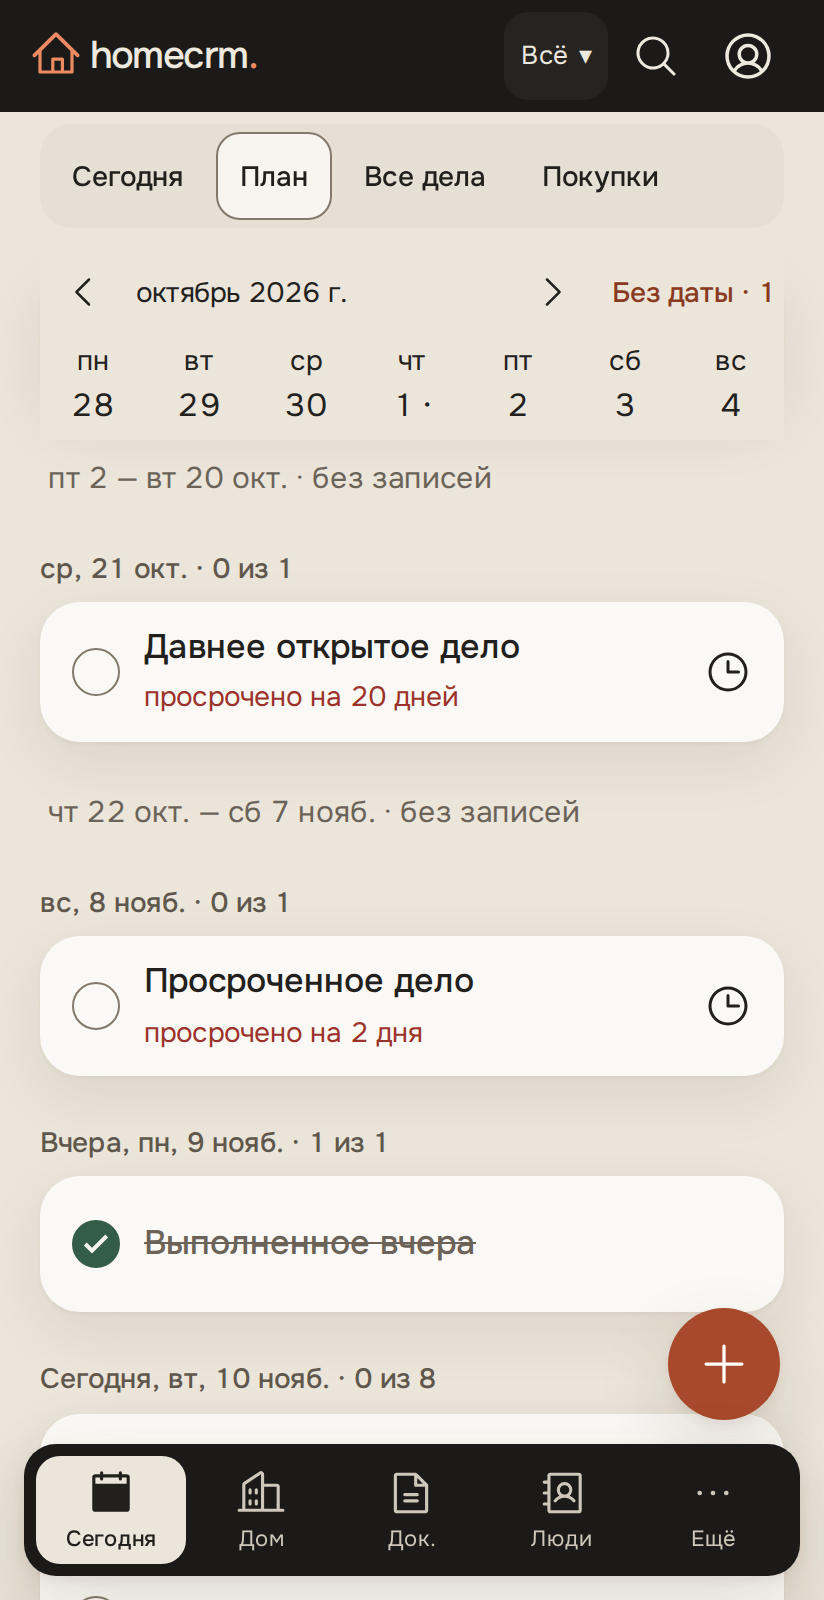
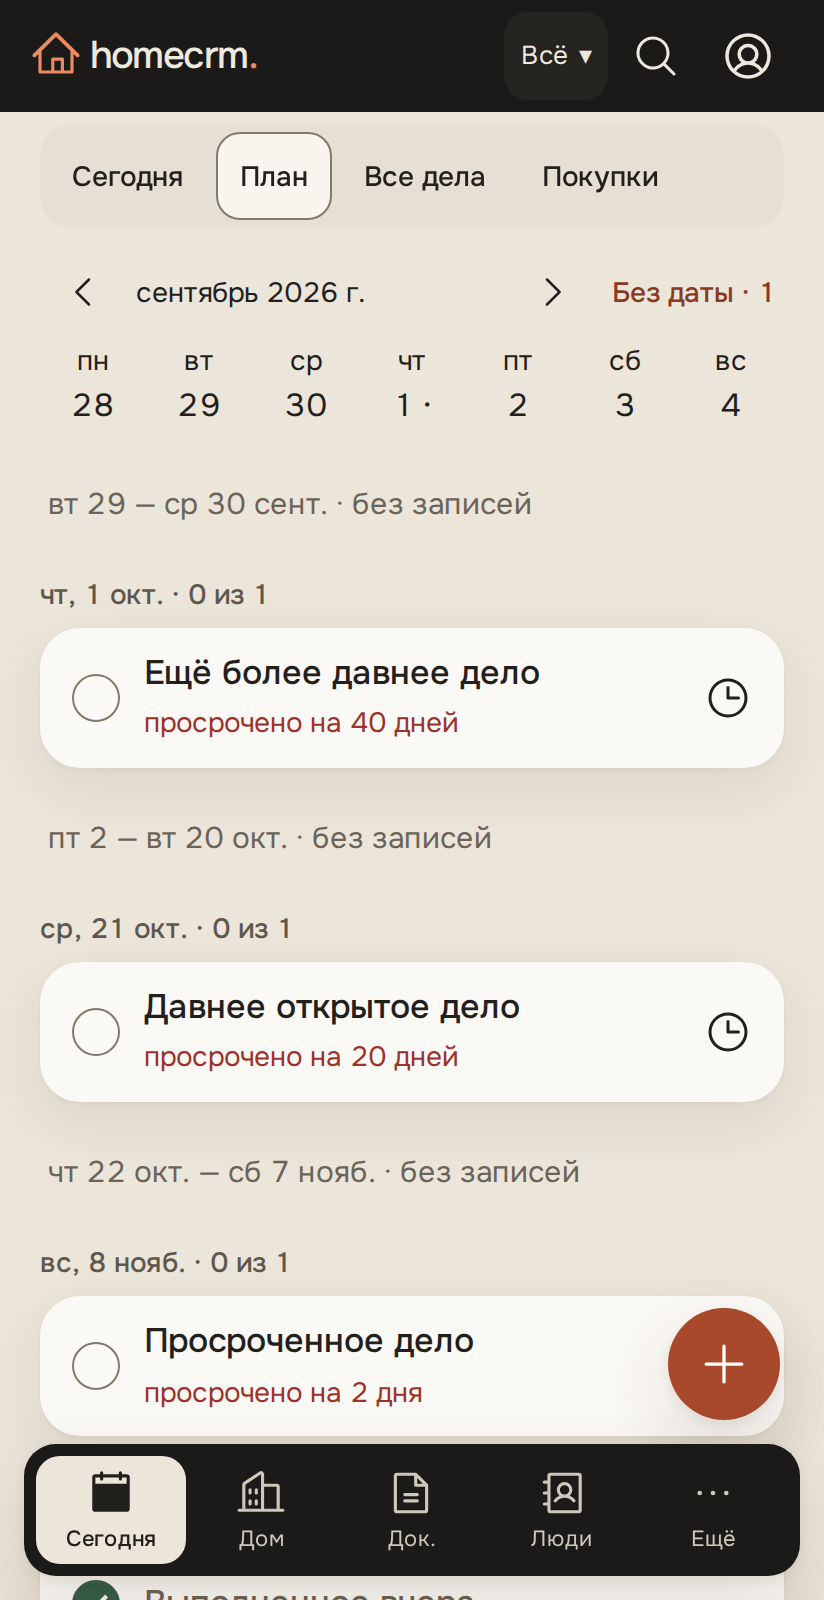
TASK-5: сохранить UI-8 при первом открытии ежедневника

diff --git a/apps/web/src/tasks/PlanWeek.tsx b/apps/web/src/tasks/PlanWeek.tsx
@@ -2,6 +2,7 @@ import { shiftTaskDate } from '@homecrm/shared';
 import { CaretLeft, CaretRight } from '@phosphor-icons/react';
 import { useEffect, useLayoutEffect, useRef, useState } from 'react';
 import { plural } from '../ui/format.ts';
+import { focusAfterTouch } from './TaskTabs.tsx';
 export function PlanWeek({
   today,
   counts,
@@ -67,14 +68,26 @@ export function PlanWeek({
   };
   const minimum = shiftTaskDate(today, -365);
   return (
-    <nav ref={root} className="plan-week" aria-label="Неделя плана">
+    <nav
+      ref={root}
+      className="plan-week"
+      aria-label="Неделя плана"
+      onPointerDown={(event) => {
+        const button = event.target instanceof Element ? event.target.closest('button') : null;
+        if (!button) return;
+        // Стандартный перевод фокуса учитывает scroll-padding шапки и может сдвинуть страницу.
+        event.preventDefault();
+        if (event.pointerType === 'touch') focusAfterTouch(button);
+        else button.focus({ preventScroll: true });
+      }}
+    >
       <div className="plan-week__heading">
         <button
           type="button"
           className="icon-button"
           aria-label="Предыдущая неделя"
           disabled={busy || monday <= minimum}
-          onClick={() => void choose([shiftTaskDate(monday, -7), minimum].sort().at(-1) ?? minimum)}
+          onClick={() => setDay([shiftTaskDate(monday, -7), minimum].sort().at(-1) ?? minimum)}
         >
           <CaretLeft size={20} />
         </button>
@@ -90,7 +103,7 @@ export function PlanWeek({
           className="icon-button"
           aria-label="Следующая неделя"
           disabled={busy}
-          onClick={() => void choose(shiftTaskDate(monday, 7))}
+          onClick={() => setDay(shiftTaskDate(monday, 7))}
         >
           <CaretRight size={20} />
         </button>
@@ -103,7 +116,7 @@ export function PlanWeek({
       <div className="plan-week__days">
         {Array.from({ length: 7 }, (_, i) => {
           const date = shiftTaskDate(monday, i);
-          const count = counts.get(date) ?? 0;
+          const count = counts.get(date);
           const full = new Intl.DateTimeFormat('ru-RU', {
             dateStyle: 'full',
             timeZone: 'UTC',
@@ -114,13 +127,17 @@ export function PlanWeek({
               type="button"
               disabled={busy || date < minimum}
               aria-current={date === today ? 'date' : undefined}
-              aria-label={`${full}, ${count} ${plural(count, ['дело', 'дела', 'дел'])}`}
+              aria-label={
+                count === undefined
+                  ? `${full}, дела не загружены`
+                  : `${full}, ${count} ${plural(count, ['дело', 'дела', 'дел'])}`
+              }
               onClick={() => void choose(date)}
             >
               <span>{['пн', 'вт', 'ср', 'чт', 'пт', 'сб', 'вс'][i]}</span>
               <span>
                 {Number(date.slice(-2))}
-                {count > 0 ? (
+                {count !== undefined && count > 0 ? (
                   <span className="plan-week__dot" aria-hidden>
                     {' '}
                     ·

diff --git a/apps/web/src/tasks/PlanFeed.tsx b/apps/web/src/tasks/PlanFeed.tsx
@@ -147,13 +147,6 @@ export function PlanFeed({ house }: { house: string | null }) {
     });
     return () => cancelAnimationFrame(frame);
   }, [active, client, scrollKey]);
-  const initialized = useRef(false);
-  useEffect(() => {
-    if (!active || !query.data || initialized.current) return;
-    initialized.current = true;
-    if (client.getQueryData<number>(scrollKey) !== undefined) return;
-    void query.fetchPreviousPage().then(() => setTargetDate(today));
-  }, [active, query.data, query.fetchPreviousPage, client, scrollKey, today]);
   const remember = () => client.setQueryData(scrollKey, window.scrollY);
   const apply = (card: FeedTaskCard) => {
     card = FeedTaskCard.strip().parse(card);
@@ -273,7 +266,12 @@ export function PlanFeed({ house }: { house: string | null }) {
     const weekTo = shiftTaskDate(weekFrom, 6);
     try {
       let data = query.data;
-      while (data?.pages[0] && weekFrom < data.pages[0].from && data.pages[0].prevCursor) {
+      while (
+        date < today &&
+        data?.pages[0] &&
+        weekFrom < data.pages[0].from &&
+        data.pages[0].prevCursor
+      ) {
         const result = await query.fetchPreviousPage();
         if (result.isError) throw result.error;
         data = result.data;
@@ -295,44 +293,6 @@ export function PlanFeed({ house }: { house: string | null }) {
       operation.setError(error);
     }
   };
-  useEffect(() => {
-    if (!active) return;
-    const up = () => {
-      const first = list.current?.querySelector('[data-plan-from]');
-      if (
-        first &&
-        first.getBoundingClientRect().top > 200 &&
-        query.hasPreviousPage &&
-        !query.isFetching
-      )
-        void prepend();
-    };
-    const wheel = (event: WheelEvent) => {
-      if (event.deltaY < 0) up();
-    };
-    let touchY: number | undefined;
-    const start = (event: TouchEvent) => {
-      touchY = event.touches[0]?.clientY;
-    };
-    const touch = (event: TouchEvent) => {
-      const y = event.touches[0]?.clientY;
-      if (y !== undefined && touchY !== undefined && y > touchY) up();
-      touchY = y;
-    };
-    const key = (event: KeyboardEvent) => {
-      if (['PageUp', 'Home', 'ArrowUp'].includes(event.key)) up();
-    };
-    window.addEventListener('wheel', wheel, { passive: true });
-    window.addEventListener('touchstart', start, { passive: true });
-    window.addEventListener('touchmove', touch, { passive: true });
-    window.addEventListener('keydown', key);
-    return () => {
-      window.removeEventListener('wheel', wheel);
-      window.removeEventListener('touchstart', start);
-      window.removeEventListener('touchmove', touch);
-      window.removeEventListener('keydown', key);
-    };
-  });
   return (
     <>
       {today ? (

diff --git a/apps/web/e2e/app/tasks.e2e.ts b/apps/web/e2e/app/tasks.e2e.ts
@@ -124,11 +124,20 @@ test('три агрегированные ленты, главное, крайн
   await expect.poll(async () => (await current(api, main.id)).isMain).toBe(false);
   await page.goto('#/today/plan');
   await expect(page.getByRole('heading', { level: 1, name: 'План', exact: true })).toHaveCount(1);
-  await page.locator('.plan-undated summary').click();
+  await page.getByRole('button', { name: 'Без даты · 52', exact: true }).click();
   await expect(page.getByRole('list', { name: 'Дела без даты' }).getByRole('link')).toHaveCount(52);
+  await page
+    .getByRole('dialog', { name: 'Без даты', exact: true })
+    .getByRole('button', { name: 'Закрыть', exact: true })
+    .click();
   await page.getByRole('button', { name: 'Показать следующие дни' }).click();
   await expect(page.getByRole('link', { name: /План позже, срок прошёл/ })).toBeVisible();
+  await page.getByRole('button', { name: 'Без даты · 52', exact: true }).click();
   await expect(page.getByRole('list', { name: 'Дела без даты' }).getByRole('link')).toHaveCount(52);
+  await page
+    .getByRole('dialog', { name: 'Без даты', exact: true })
+    .getByRole('button', { name: 'Закрыть', exact: true })
+    .click();
   await check(page, info, 'plan');
   await page.goto('#/today/all');
   await withTaskFilters(page, (sheet) =>

diff --git a/apps/web/e2e/app/tasks-layout.e2e.ts b/apps/web/e2e/app/tasks-layout.e2e.ts
@@ -193,11 +193,17 @@ test('заполненные ленты: главное перед вводом,
     .toBe('open');
   for (const view of ['plan', 'all'] as const) {
     await openFeed(page, view);
-    if (view === 'plan') await page.locator('.plan-undated summary').click();
+    if (view === 'plan')
+      await page.getByRole('button', { name: 'Без даты · 1', exact: true }).click();
     await expect(
       page.getByRole('link', { name: /Разобрать вымышленные бумаги без даты/ }),
     ).toBeVisible();
     await check(page, `filled-${view}-${info.project.use.viewport?.width}`);
+    if (view === 'plan')
+      await page
+        .getByRole('dialog', { name: 'Без даты', exact: true })
+        .getByRole('button', { name: 'Закрыть', exact: true })
+        .click();
   }
 });
 

diff --git a/apps/web/e2e/app/motion.e2e.ts b/apps/web/e2e/app/motion.e2e.ts
@@ -263,7 +263,7 @@ for (const reduce of [false, true]) {
         // Длинная протяжка дальше порога выполняет сразу.
         await drag(page, task.locator('a').first(), 160);
         await expect(page.getByText('Дело выполнено', { exact: true })).toBeVisible();
-        if (feed === 'today/all') await expect(task.locator('.plan-circle--done')).toBeVisible();
+        if (feed !== 'today') await expect(task.locator('.plan-circle--done')).toBeVisible();
         else await expect(task).toHaveCount(0);
         await page.getByRole('button', { name: 'Отменить', exact: true }).click();
         await expect(task).toBeVisible();

diff --git a/apps/web/e2e/app/today-ux.e2e.ts b/apps/web/e2e/app/today-ux.e2e.ts
@@ -35,7 +35,7 @@ async function swipe(page: Page, forward: boolean) {
   const session = await page.context().newCDPSession(page);
   const width = page.viewportSize()?.width ?? 360;
   const content = page.url().endsWith('/today/plan')
-    ? page.getByText('На две недели вперёд дел нет', { exact: true })
+    ? page.locator('.plan-empty-days').first()
     : page.url().endsWith('/more/shopping')
       ? page.locator('.feed-heading')
       : page.locator('main .page-heading');

diff --git a/docs/screenshots/d49/README.md b/docs/screenshots/d49/README.md
@@ -2,7 +2,8 @@
 
 Linux Playwright, тема Studio, ширины 360 и 412 px; высота окна 800 px.
 
-- `today-w360.png`, `today-w412.png` — открытие на сегодня; на 360 × 800 видно не менее пяти строк.
+- `today-w360.png`, `today-w412.png` — первое открытие на сегодня без запроса прошлого и программной прокрутки.
+- `sticky-w360.png`, `sticky-w412.png` — прилипшие вкладки и неделя; на 360 × 800 видно не менее пяти строк.
 - `history-w360.png`, `history-w412.png` — история выполненного и пустые прошлые дни.
 - `undated-w360.png`, `undated-w412.png` — лист «Без даты» и возраст дела.
 - `review-w360.png`, `review-w412.png` — воскресная карточка разбора на «Сегодня».
